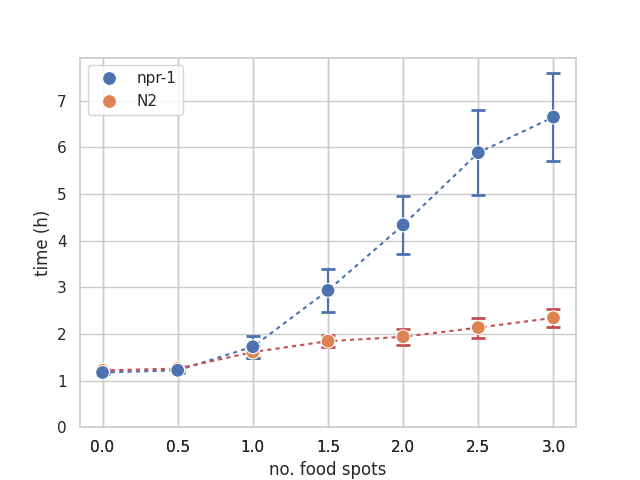
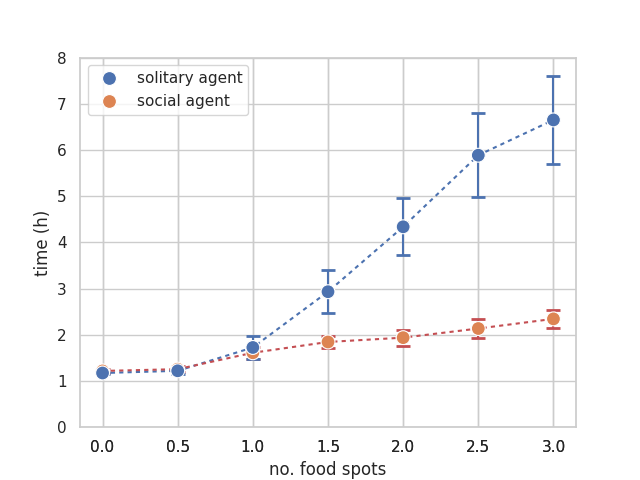
plot bug

diff --git a/plotting.py b/plotting.py
@@ -34,9 +34,10 @@ def plot_mean_with_df(file_name: str, group:str,x_axes:str):
     scatter = sns.scatterplot(data=sp, x=x_axes, y='Mean time', hue=group, s=100, zorder=10)
     handles, _ = scatter.get_legend_handles_labels()  # Get legend handles and labels
 
-    # Create custom legend with scatter plot markers
-    custom_legend = plt.legend(handles=handles, labels=['npr-1','N2'], loc='best')
-
+    if group == "Strain specific":
+        custom_legend = plt.legend(handles=handles, labels=['npr-1','N2'], loc='best')
+    else:
+        custom_legend = plt.legend(handles=handles, labels=['solitary agent', 'social agent'], loc='best')
     for handle in custom_legend.legendHandles:
         handle.set_alpha(1)  # Set the opacity of legend markers to 1
 
